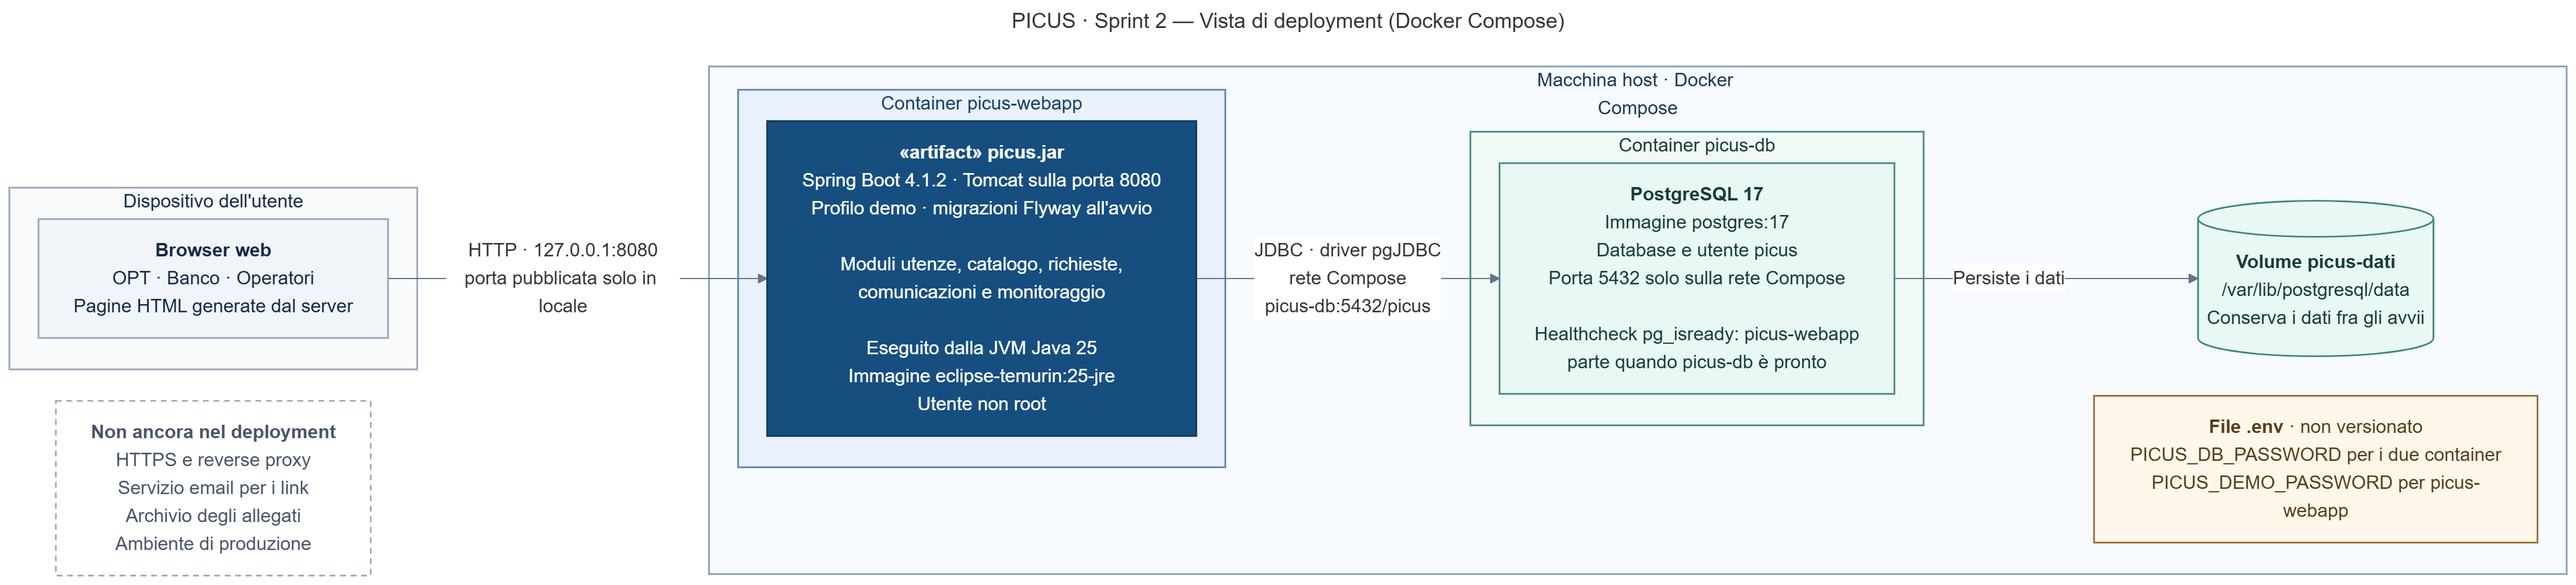
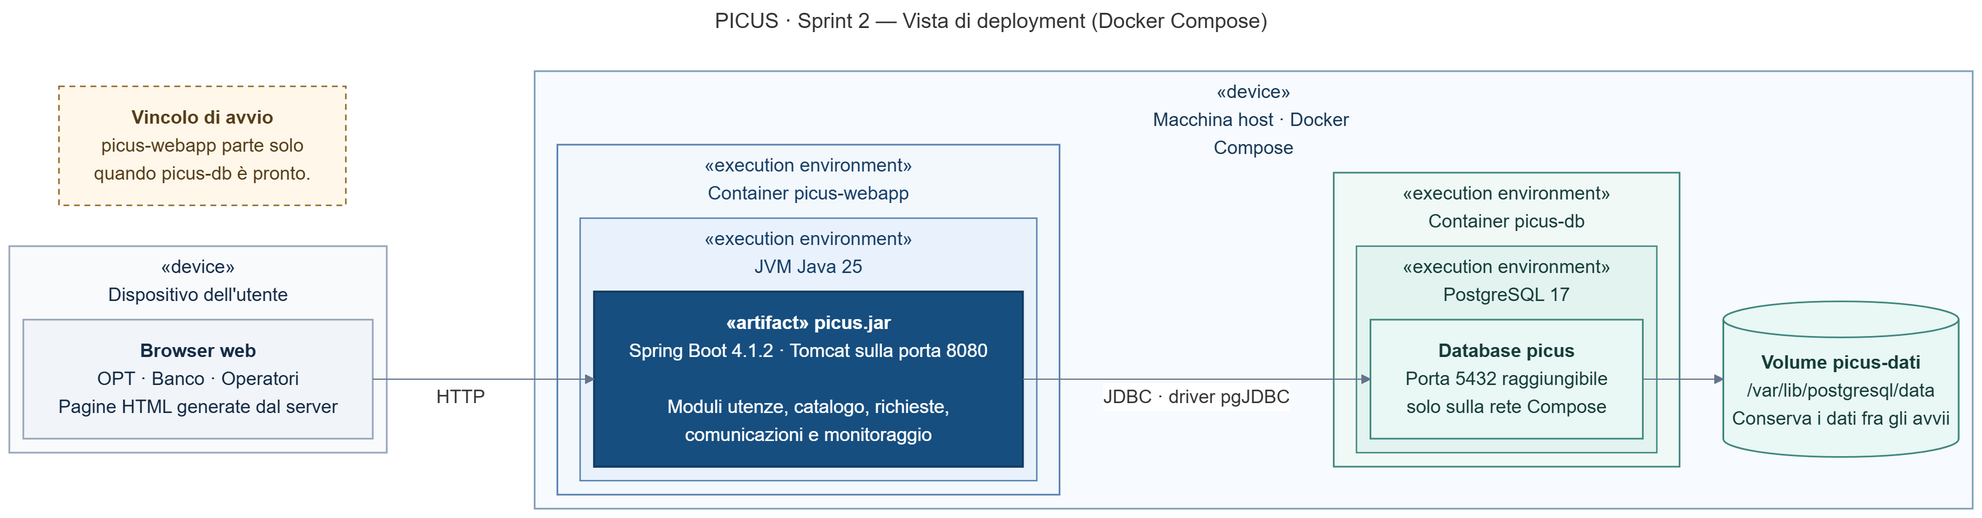
docs(architettura): rivedi la vista di deployment con gli execution environment
Refs #76

diff --git a/docs/architecture/README.md b/docs/architecture/README.md
@@ -27,6 +27,7 @@ La #77 ha introdotto in `main` lo schema PostgreSQL, le mappature JPA e i dati d
 
 ## Come leggere la vista di deployment
 
-- **Nodi e container.** Docker Compose esegue sulla macchina host due container. `picus-webapp` esegue `picus.jar` su una JVM Java 25 e `picus-db` esegue PostgreSQL 17, che conserva i dati nel volume `picus-dati`. [docker-compose.yml](https://github.com/Pinguini-alla-Fragola/Progetto-SAD/blob/main/docker-compose.yml)
+- **Notazione.** La vista segue la notazione UML dei diagrammi di deployment. I `«device»` sono le macchine fisiche, gli `«execution environment»` sono gli ambienti di esecuzione annidati e l’`«artifact»` è il file eseguito. Il sorgente usa il layout ELK di Mermaid.
+- **Nodi e container.** Docker Compose esegue sulla macchina host due container. In `picus-webapp` la JVM Java 25 esegue `picus.jar`. In `picus-db` PostgreSQL 17 gestisce il database `picus` e conserva i dati nel volume `picus-dati`. La nota indica che `picus-webapp` parte solo quando `picus-db` è pronto. [docker-compose.yml](https://github.com/Pinguini-alla-Fragola/Progetto-SAD/blob/main/docker-compose.yml)
 - **Collegamenti.** Il browser raggiunge l’applicazione via HTTP su `127.0.0.1:8080`. L’applicazione usa JDBC verso `picus-db:5432`, raggiungibile solo sulla rete Compose.
-- **Fuori dallo Sprint 2.** HTTPS, servizio email, archivio allegati e ambiente di produzione non fanno ancora parte del deployment. La porta pubblicata solo in locale non consente l’accesso da un altro dispositivo.
+- **Fuori dallo Sprint 2.** HTTPS, servizio email e ambiente di produzione non fanno ancora parte del deployment. La porta pubblicata solo in locale non consente l’accesso da un altro dispositivo.
